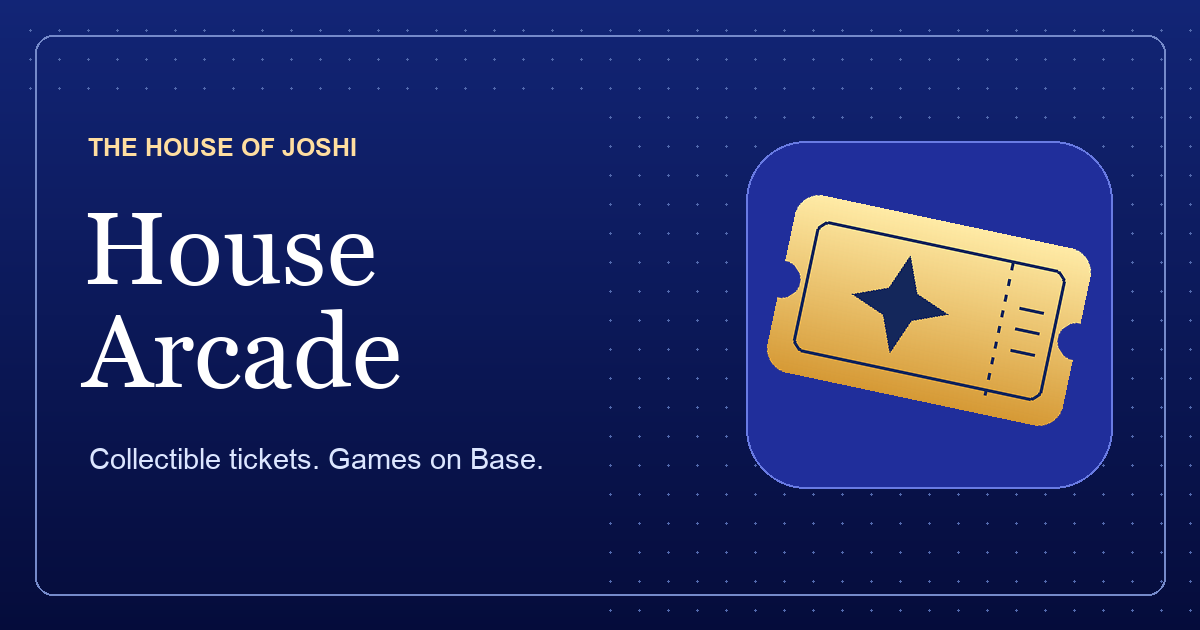
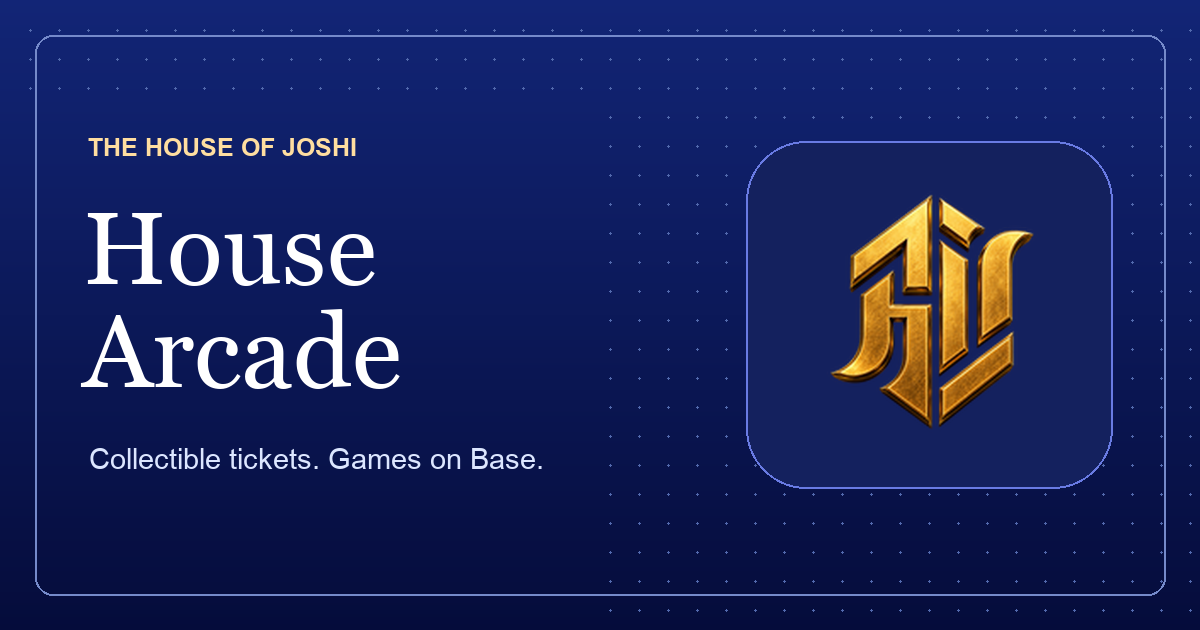
Use the House of Joshi monogram for Arcade branding

Changed region(s): [[0.6167, 0.2111, 0.925, 0.7841]]

diff --git a/raffle/public/arcade.html b/raffle/public/arcade.html
@@ -11,16 +11,16 @@
 <meta property="og:title" content="House Arcade · The House of Joshi">
 <meta property="og:description" content="Collect numbered NFT tickets on Base with House Raffle, and explore the games coming to House Arcade.">
 <meta property="og:url" content="https://arcade.thehouseofjoshi.com/">
-<meta property="og:image" content="https://arcade.thehouseofjoshi.com/arcade-share.png">
+<meta property="og:image" content="https://arcade.thehouseofjoshi.com/arcade-share.png?v=2">
 <meta property="og:image:type" content="image/png">
 <meta property="og:image:width" content="1200">
 <meta property="og:image:height" content="630">
-<meta property="og:image:alt" content="House Arcade on a blue background with a gold ticket emblem.">
+<meta property="og:image:alt" content="House Arcade on a blue background with the gold House of Joshi monogram.">
 <meta name="twitter:card" content="summary_large_image">
 <meta name="twitter:title" content="House Arcade · The House of Joshi">
 <meta name="twitter:description" content="Collectible tickets and games on Base.">
-<meta name="twitter:image" content="https://arcade.thehouseofjoshi.com/arcade-share.png">
-<meta name="twitter:image:alt" content="House Arcade on a blue background with a gold ticket emblem.">
+<meta name="twitter:image" content="https://arcade.thehouseofjoshi.com/arcade-share.png?v=2">
+<meta name="twitter:image:alt" content="House Arcade on a blue background with the gold House of Joshi monogram.">
 <link rel="stylesheet" href="/wallet-button.css">
 <style>
 :root{color-scheme:light;--blue:#0000ff;--ink:#00184d;--muted:#405577;--line:#d3e1ff}
